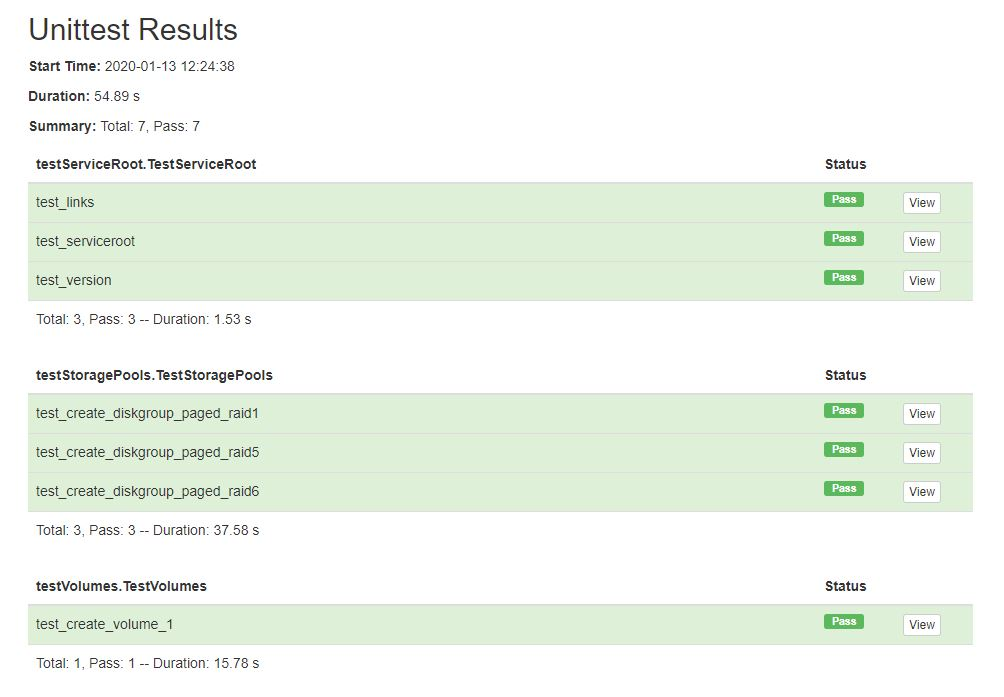
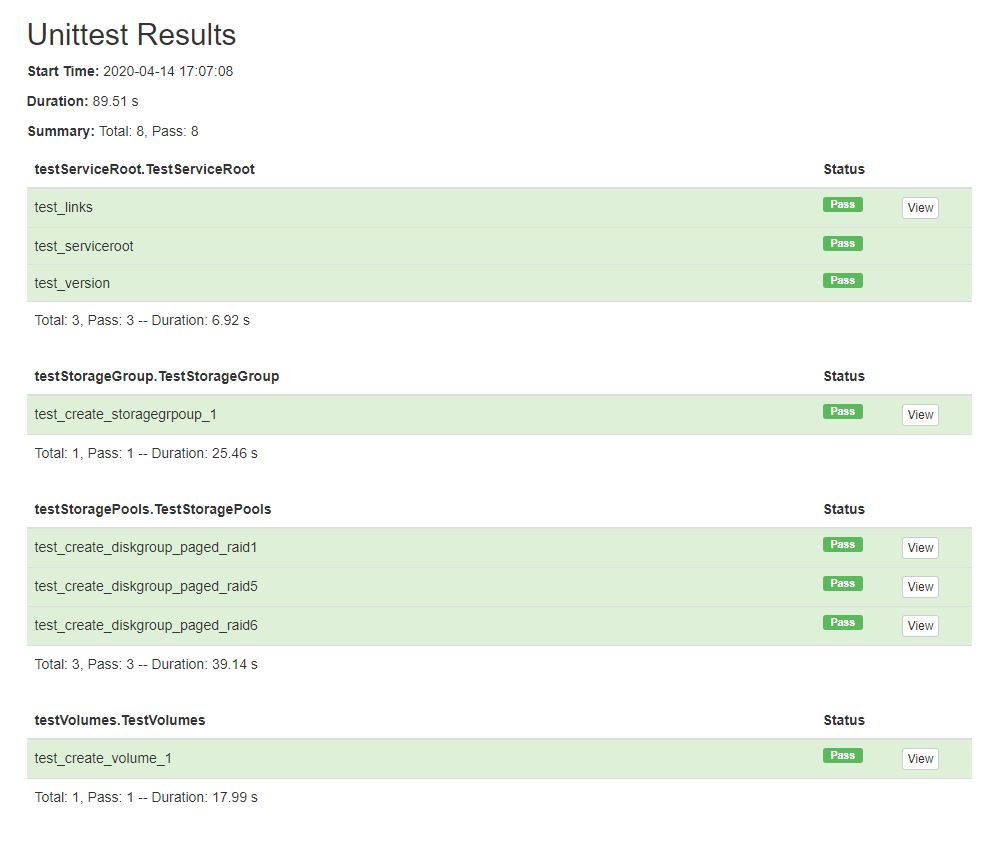
1.2.2: Updates to unit testing results and debug

Changed region(s): [[0.0, 0.0301, 0.988, 0.9641]]

diff --git a/core/redfishSystem.py b/core/redfishSystem.py
@@ -280,7 +280,7 @@ class RedfishSystem:
         inited = False
         cls.drives = []
         url = cls.get_uri(redfishConfig, 'Drives')
-        Trace.log(TraceLevel.INFO, '++ initialize_drives: url={}'.format(url))
+        Trace.log(TraceLevel.DEBUG, '++ initialize_drives: url={}'.format(url))
 
         try:
             # GET DriveCollection
@@ -291,7 +291,7 @@ class RedfishSystem:
             totalDrives = int(membersCount)
             odataIds = JsonExtract.get_values(link.jsonData, "@odata.id")
             
-            Trace.log(TraceLevel.INFO, '++ initialize_drives: membersCount={}, totalDrives={}'.format(membersCount, totalDrives))
+            Trace.log(TraceLevel.DEBUG, '++ initialize_drives: membersCount={}, totalDrives={}'.format(membersCount, totalDrives))
 
             # Don't include the main @odata.id for the Drive Collection, all others are Drives/#.#
             if (url[-1] == '/'):
@@ -328,7 +328,7 @@ class RedfishSystem:
             Trace.log(TraceLevel.VERBOSE, '++ initialize_drives: inited={}'.format(inited))
 
         except Exception as e:
-            Trace.log(TraceLevel.INFO, '-- Unable to initialize drives, exception: {}'.format(e))
+            Trace.log(TraceLevel.ERROR, '-- Unable to initialize drives, exception: {}'.format(e))
             inited = False
 
         Trace.log(TraceLevel.DEBUG, '++ initialize_disks: {} drives added'.format(len(cls.drives)))
@@ -347,7 +347,7 @@ class RedfishSystem:
         cls.ports = []
 
         url = RedfishSystem.get_uri(redfishConfig, 'EndpointGroups')
-        Trace.log(TraceLevel.INFO, '++ initialize_ports: url={}'.format(url))
+        Trace.log(TraceLevel.DEBUG, '++ initialize_ports: url={}'.format(url))
 
         try:
             # GET DriveCollection
@@ -357,9 +357,9 @@ class RedfishSystem:
             membersCount = JsonExtract.get_value(link.jsonData, None, 'Members@odata.count', 1)
             totalItems = int(membersCount)
             odataIds = JsonExtract.get_values(link.jsonData, "@odata.id")
-            Trace.log(TraceLevel.INFO, '++ odataIds: {}'.format(odataIds))
+            Trace.log(TraceLevel.DEBUG, '++ odataIds: {}'.format(odataIds))
 
-            Trace.log(TraceLevel.INFO, '++ initialize_ports: membersCount={}, totalDrives={}'.format(membersCount, totalItems))
+            Trace.log(TraceLevel.DEBUG, '++ initialize_ports: membersCount={}, totalDrives={}'.format(membersCount, totalItems))
 
             # Don't include the main @odata.id for the Drive Collection, all others are Drives/#.#
             if (url[-1] == '/'):
@@ -392,7 +392,7 @@ class RedfishSystem:
             inited = True
 
         except Exception as e:
-            Trace.log(TraceLevel.INFO, '-- Unable to initialize ports, exception: {}'.format(e))
+            Trace.log(TraceLevel.ERROR, '-- Unable to initialize ports, exception: {}'.format(e))
             inited = False
 
         Trace.log(TraceLevel.VERBOSE, '++ initialize_ports: inited={}, count={}'.format(inited, len(cls.ports)))
@@ -410,7 +410,7 @@ class RedfishSystem:
         cls.initiators = []
 
         url = RedfishSystem.get_uri(redfishConfig, 'EndpointGroups')
-        Trace.log(TraceLevel.INFO, '++ initialize_initiators: url={}'.format(url))
+        Trace.log(TraceLevel.DEBUG, '++ initialize_initiators: url={}'.format(url))
 
         try:
             # GET DriveCollection
@@ -420,9 +420,9 @@ class RedfishSystem:
             membersCount = JsonExtract.get_value(link.jsonData, None, 'Members@odata.count', 1)
             totalItems = int(membersCount)
             odataIds = JsonExtract.get_values(link.jsonData, "@odata.id")
-            Trace.log(TraceLevel.INFO, '++ odataIds: {}'.format(odataIds))
+            Trace.log(TraceLevel.DEBUG, '++ odataIds: {}'.format(odataIds))
 
-            Trace.log(TraceLevel.INFO, '++ initialize_initiators: membersCount={}, totalDrives={}'.format(membersCount, totalItems))
+            Trace.log(TraceLevel.DEBUG, '++ initialize_initiators: membersCount={}, totalDrives={}'.format(membersCount, totalItems))
 
             # Don't include the main @odata.id for the Drive Collection, all others are Drives/#.#
             if (url[-1] == '/'):
@@ -455,7 +455,7 @@ class RedfishSystem:
             inited = True
 
         except Exception as e:
-            Trace.log(TraceLevel.INFO, '-- Unable to initialize initiators, exception: {}'.format(e))
+            Trace.log(TraceLevel.ERROR, '-- Unable to initialize initiators, exception: {}'.format(e))
             inited = False
 
         Trace.log(TraceLevel.VERBOSE, '++ initialize_initiators: inited={}, count={}'.format(inited, len(cls.initiators)))
@@ -475,21 +475,21 @@ class RedfishSystem:
         if (initialized is False and redfishConfig.sessionValid):
 
             tempstatus = cls.initialize_drives(redfishConfig)
-            Trace.log(TraceLevel.INFO, '++ initialize_system: initialize_drives={}'.format(tempstatus))
+            Trace.log(TraceLevel.DEBUG, '++ initialize_system: initialize_drives={}'.format(tempstatus))
             if (tempstatus == True):
                 initialized = True
             else:
                 initialized = False
 
             tempstatus = cls.initialize_ports(redfishConfig)
-            Trace.log(TraceLevel.INFO, '++ initialize_system: initialize_ports={}'.format(tempstatus))
+            Trace.log(TraceLevel.DEBUG, '++ initialize_system: initialize_ports={}'.format(tempstatus))
             if (tempstatus == True):
                 initialized = True
             else:
                 initialized = False
 
             tempstatus = cls.initialize_initiators(redfishConfig)
-            Trace.log(TraceLevel.INFO, '++ initialize_system: initialize_initiators={}'.format(tempstatus))
+            Trace.log(TraceLevel.DEBUG, '++ initialize_system: initialize_initiators={}'.format(tempstatus))
             if (tempstatus == True):
                 initialized = True
             else:
@@ -497,7 +497,7 @@ class RedfishSystem:
 
             cls.successfulSystemInit = initialized
 
-        Trace.log(TraceLevel.INFO, '++ initialize_system: {}'.format(initialized))
+        Trace.log(TraceLevel.VERBOSE, '++ initialize_system: {}'.format(initialized))
 
         return (initialized)
 

diff --git a/version.py b/version.py
@@ -13,4 +13,4 @@
 # ******************************************************************************************
 #
 
-__version__ = '1.2.1'
+__version__ = '1.2.2'

diff --git a/CHANGELOG.md b/CHANGELOG.md
@@ -1,9 +1,12 @@
 # Change Log
 
+## [1.2.2] - 2020-04-15
+- Reduced output during unit testing
+
 ## [1.2.1] - 2020-04-09
 - Updates to 'show disks' command
 - Updates to 'show diskgroups' command
--- Correction to TestStorageGroup
+- Correction to TestStorageGroup
 
 ## [1.2.0] - 2020-04-06
 - Support for linear and virtual storage. Tested against the Seagate PODs storage system. 
